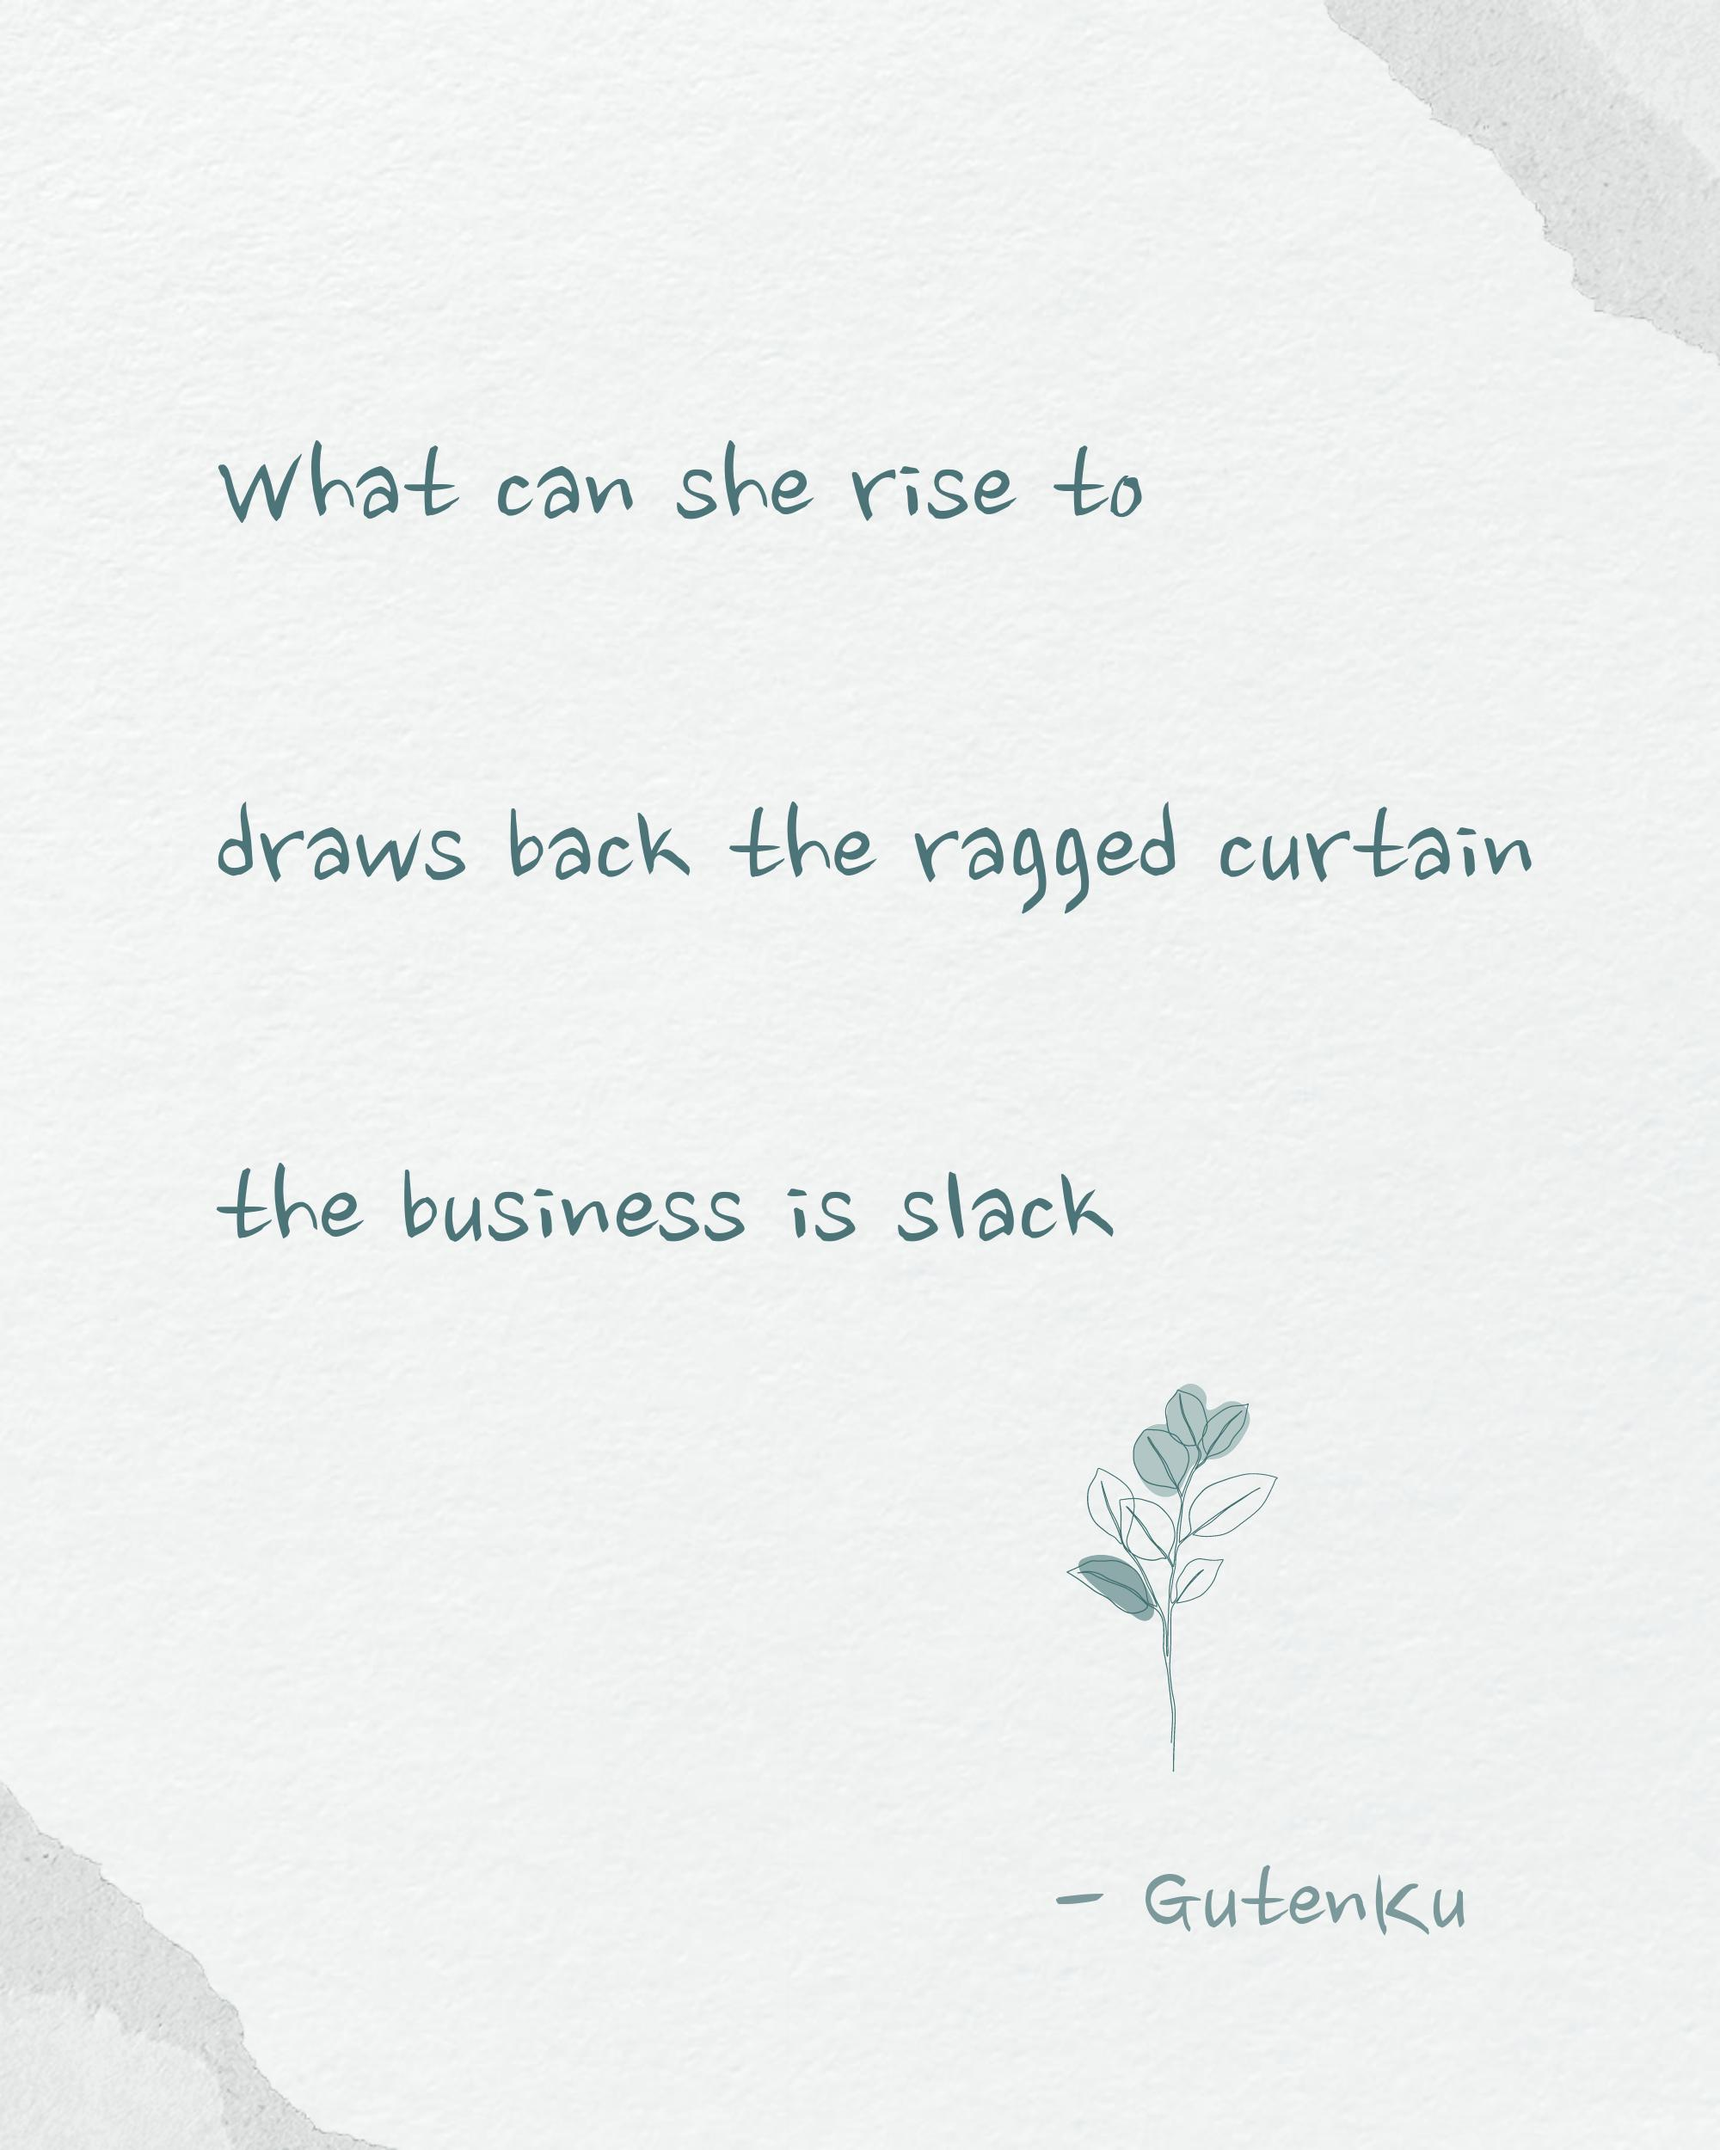
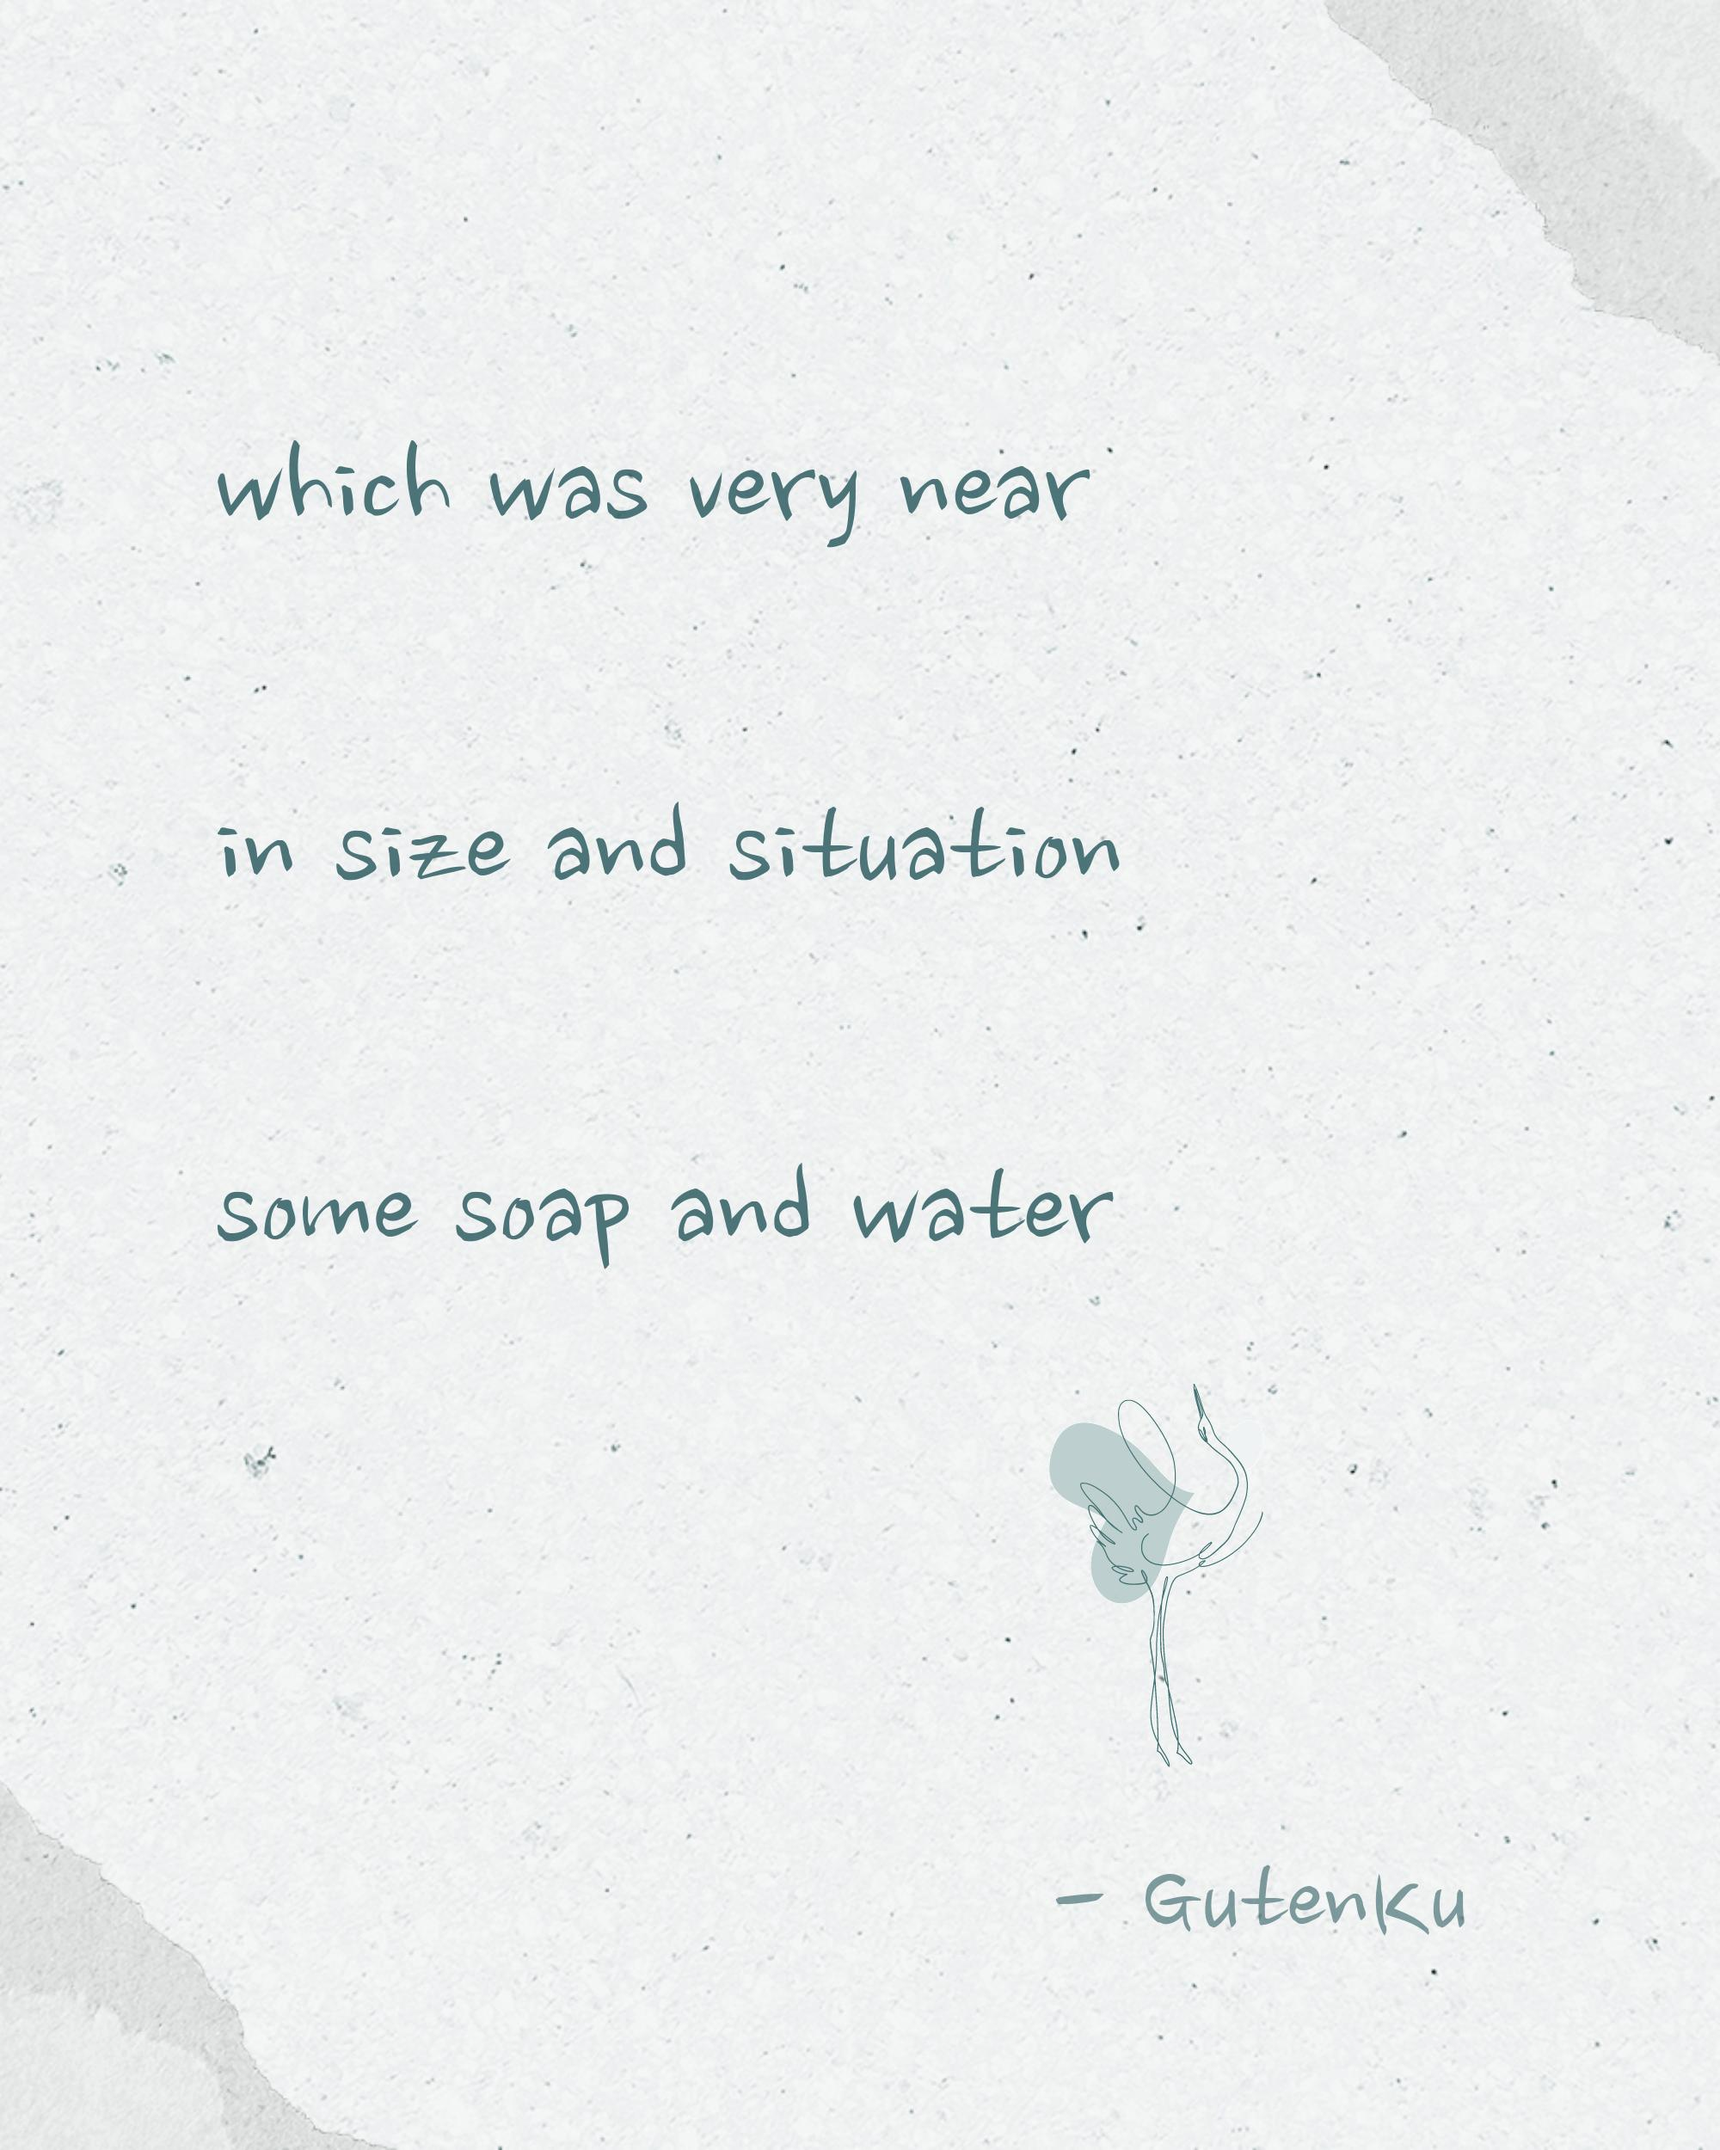
docs(readme): updated daily haiku card

diff --git a/README.md b/README.md
@@ -25,13 +25,13 @@
 <table>
 <tr>
 <td width="300" valign="top">
-<img src="/assets/img/daily_haiku_card.jpg?t=1788688838" width="280" alt="Daily Haiku Card">
+<img src="/assets/img/daily_haiku_card.jpg?t=1788775237" width="280" alt="Daily Haiku Card">
 </td>
 <td valign="top">
 
-> _"This haiku suggests a scene of stillness and disappointment, possibly in a shop, workplace, or stage-like setting. The phrase "what can she rise to" hints at someone being asked to meet an expectation or perform, yet the answer feels limited or uncertain. "Draws back the ragged curtain" creates a vivid image of revealing a worn, tired reality, as if the speaker is uncovering something shabby or unglamorous. The final line, "the business is slack," gives the poem a blunt, economic tone, showing that there is little activity, energy, or demand. Together, the lines evoke a mood of weariness, poverty, and quiet resignation, with the curtain acting as a symbol of both concealment and exposure."_
+> _"This haiku presents a quiet, almost comic moment of observation. The speaker notices something that is “very near / in size and situation” to “some soap and water,” which creates a strange but vivid comparison. The plain, everyday image of soap and water suggests cleanliness, simplicity, and domestic life, but the phrasing is deliberately indirect and fragmented, giving the poem a reflective, slightly mysterious tone. As in much haiku, the ordinary is made fresh through precise attention, and the line breaks encourage us to pause over the relationship between objects, space, and meaning. The result is a minimalist poem that feels both humorous and thoughtful, turning a small detail into a moment of poetic surprise."_
 
-— **BotenKu** 📅 _Sep 06, 2026_
+— **BotenKu** 📅 _Sep 07, 2026_
 
 </td>
 </tr>
